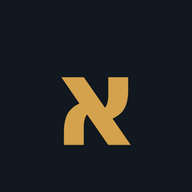
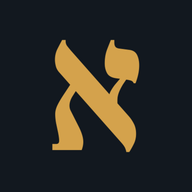
Icône : aleph en Frank Ruhl Libre 700 (police de la marque), recentré
- Passe de DejaVu Sans à Frank Ruhl Libre bold — la police du bandeau
  « כַּרְטִיסִים · Flashcards » — pour une icône raccord avec l'app
- Centrage optique corrigé : glyphe rogné à son encre réelle puis recentré
  (l'ancien -annotate +0+16 le décalait vers le bas)
- 192/180 dérivés par réduction du 512 (marges cohérentes)
- SW v3 pour re-précacher les icônes

Changed region(s): [[0.25, 0.1875, 0.75, 0.8125]]

diff --git a/sw.js b/sw.js
@@ -12,7 +12,7 @@
  * stratégie ou de liste d'assets (pas nécessaire pour le contenu, qui se
  * rafraîchit tout seul).
  */
-const VERSION = 'v2'; // v2 : icônes régénérées avec la charte unifiée (fond #12181f, or #d4a24c)
+const VERSION = 'v3'; // v3 : icône en Frank Ruhl Libre 700 (police de la marque), aleph recentré
 const CACHE = 'flashcards-hebreu-' + VERSION;
 
 const ASSETS = [